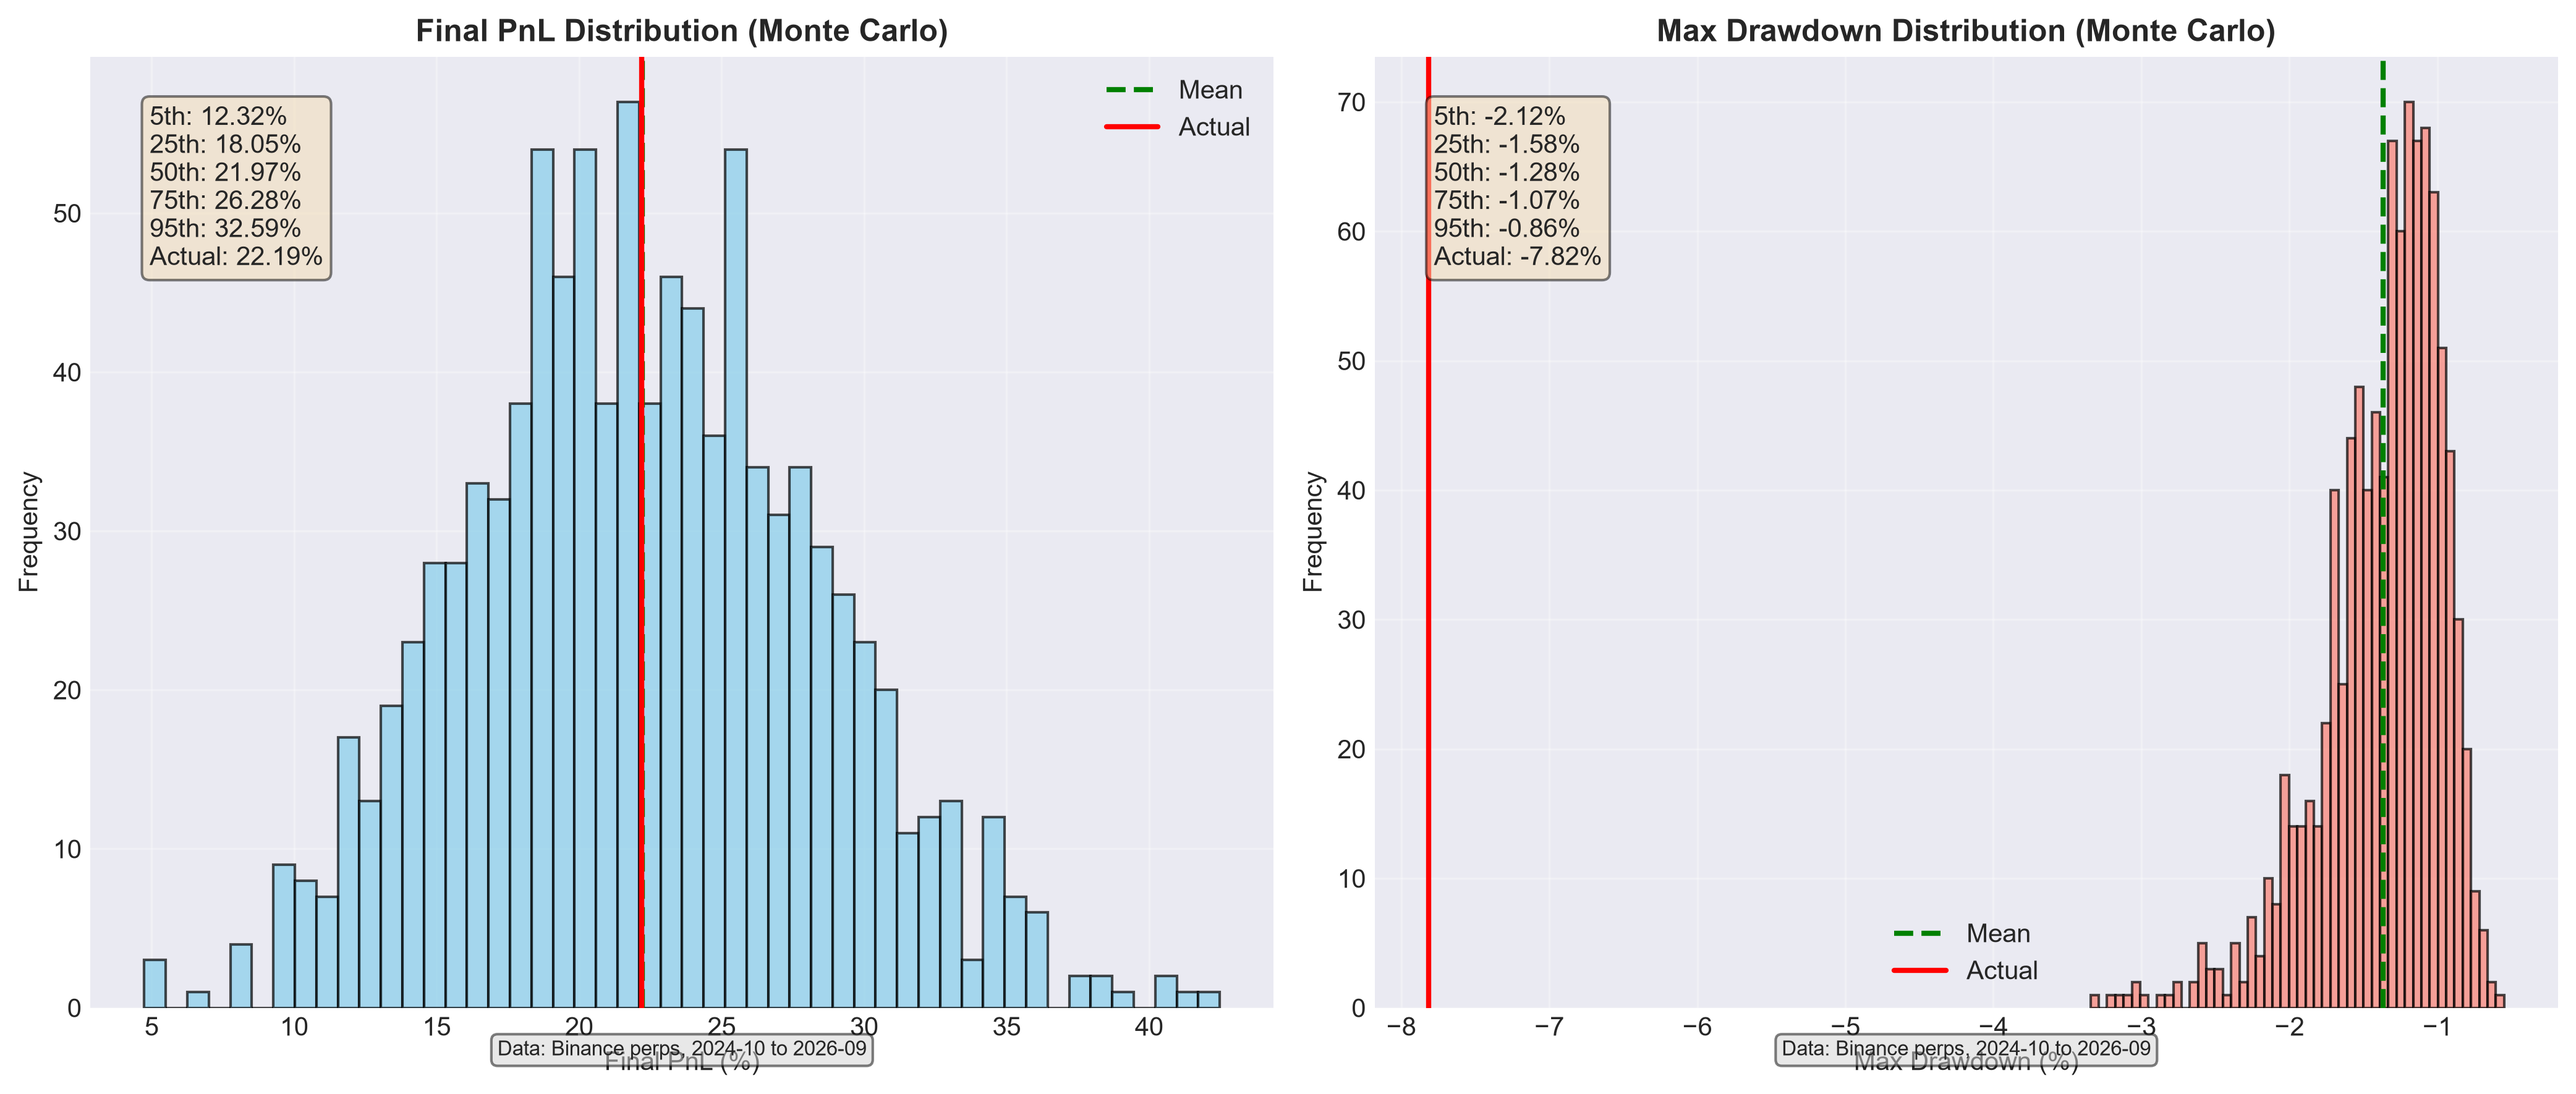
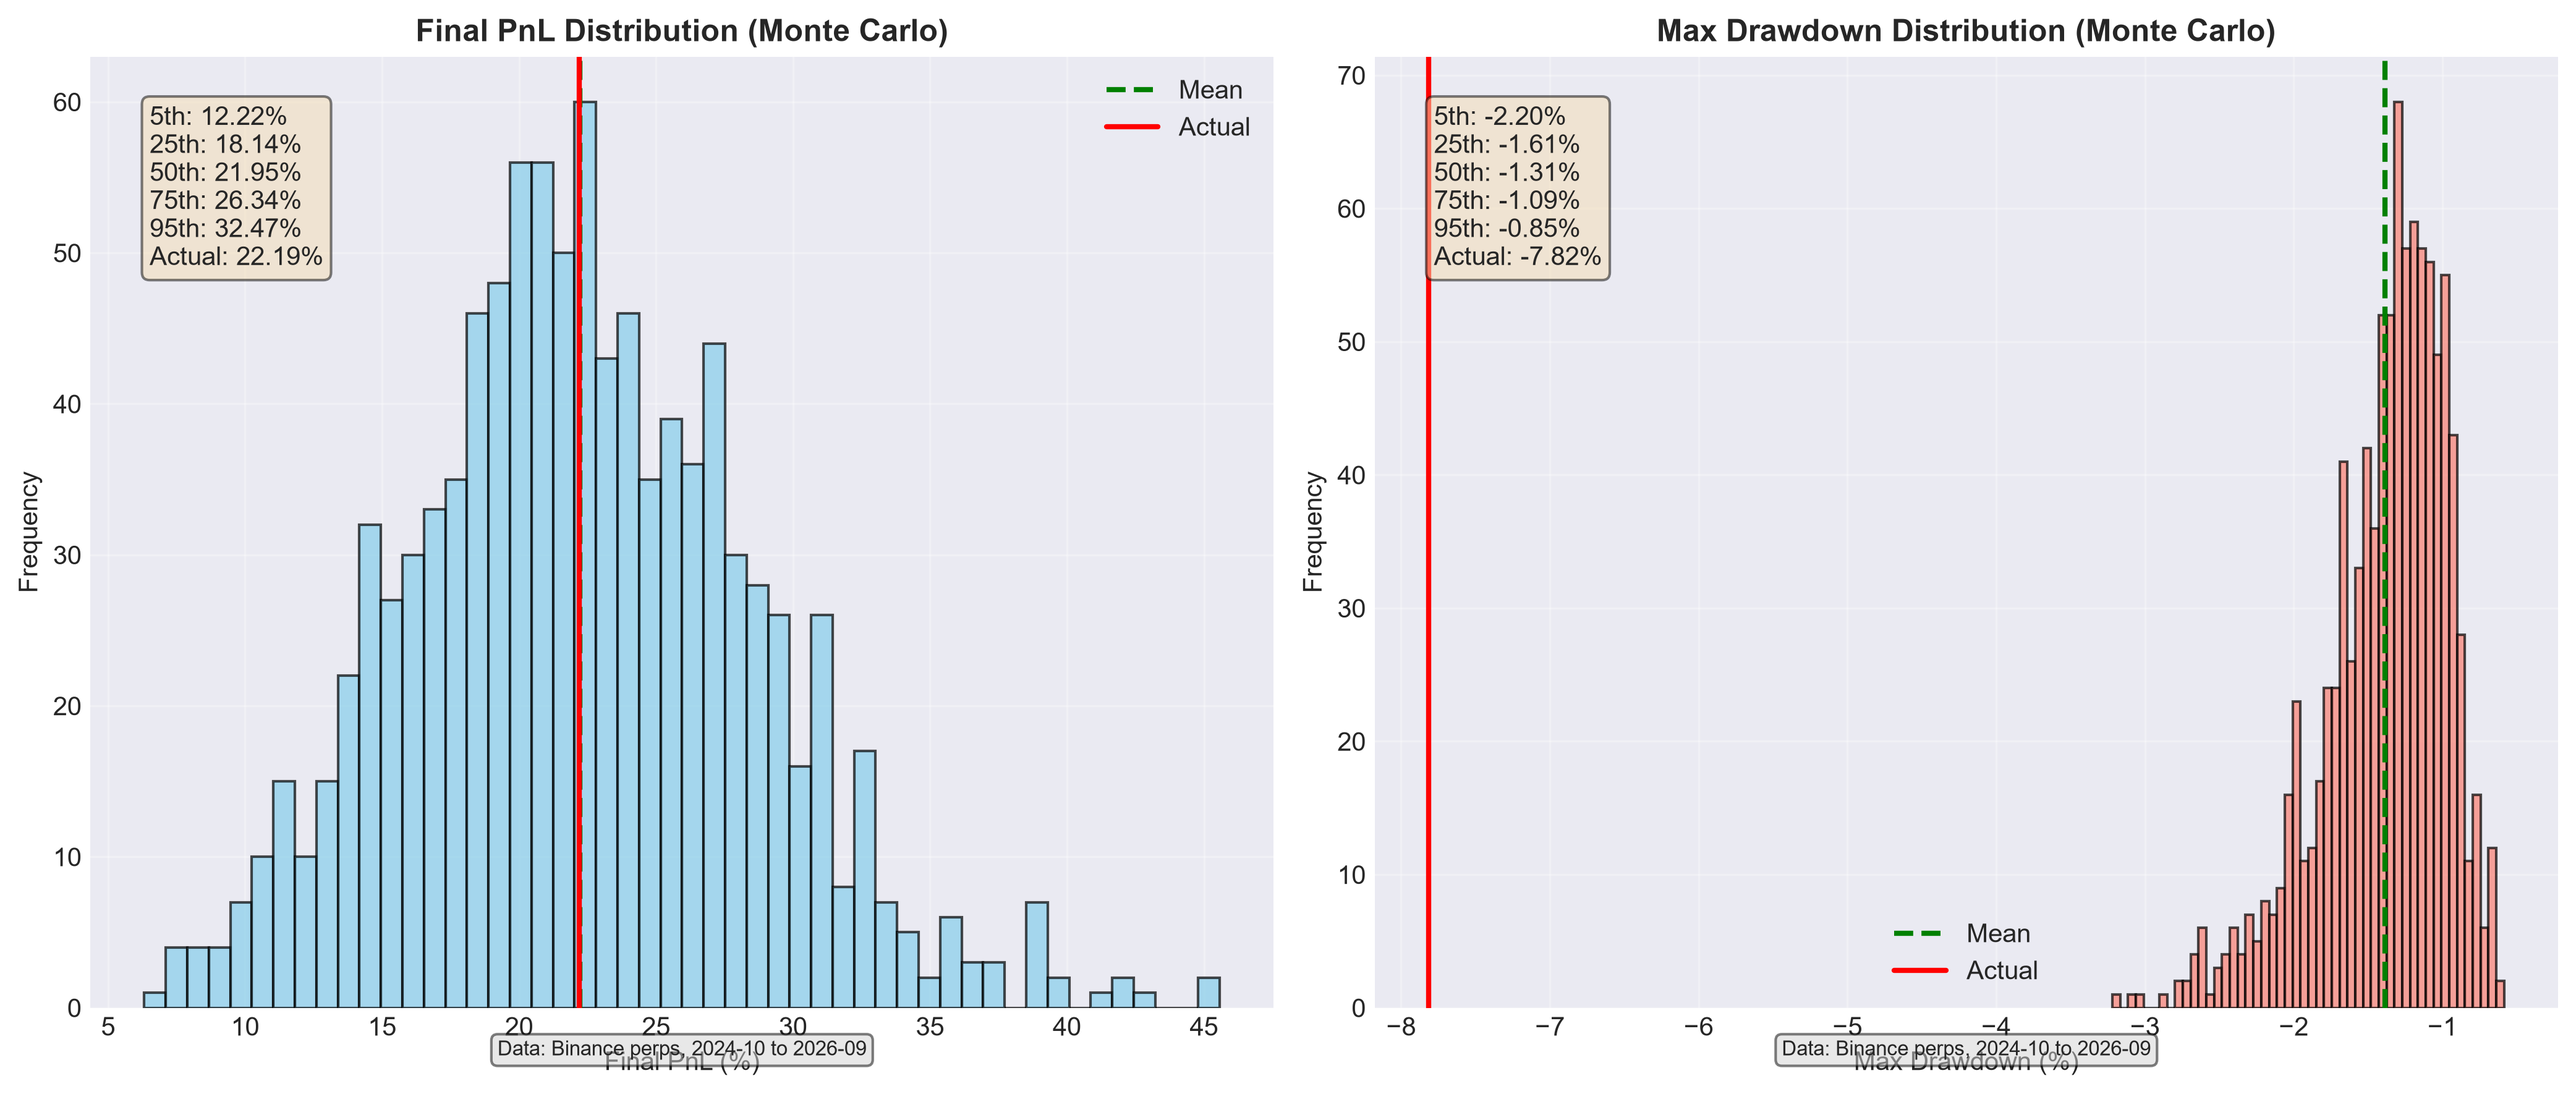
fix: correct concentration asset (AXS 63%) and year attribution in REPORT

diff --git a/REPORT.md b/REPORT.md
@@ -48,7 +48,7 @@ Individual trade PnL distribution shows a positive mean with right skew, indicat
 *Figure 3: Trade PnL histogram with mean (green) and break-even (red) lines*
 
 ### Asset Contribution
-PnL is distributed across multiple assets, with the top asset contributing approximately 49% of total profits.
+PnL is distributed across multiple assets, with the top asset (AXS) contributing 63.0% of total profits.
 
 ![PnL by Asset](charts/05_pnl_by_asset.png)
 *Figure 4: Horizontal bar chart of PnL contribution by asset (top 15)*
@@ -62,7 +62,7 @@ PnL is distributed across multiple assets, with the top asset contributing appro
 - **Deflated Sharpe Ratio (DSR)**: 3.4180, p = 0.0003 (survives multiple testing bias correction)
 
 ### Walk-Forward Analysis
-The strategy was validated using a 6-month training, 2-month testing walk-forward approach with monthly rebalancing. All four MF candidates (0.0002, 0.0003, 0.0004, 0.0005) were evaluated each window, with selection based on highest training Sharpe ratio.
+Walk-forward validation used 6-month training and 2-month test windows, rolling monthly (17 windows). All four MF candidates were evaluated on training data; the optimizer selected MF=0.0005 in every window, which suggests the tight-threshold config dominates across regimes. Out-of-sample, 12 of 17 windows (70.6%) were positive with median test Sharpe 6.42. This is a positive result, though the lack of MF diversity across windows limits the strength of the optimizer validation.
 
 ![Walk-Forward Test Sharpe](charts/06_walk_forward.png)
 *Figure 5: Test Sharpe ratio per walk-forward window (green = positive, red = negative)*
@@ -84,7 +84,7 @@ Average losing trade: -0.25%
 R:R ratio: 2.70
 
 ### Concentration Analysis
-Top asset (INJ) accounts for 49.31% of total PnL, below the 50% threshold for excessive concentration.
+Top asset (AXS) accounts for 63.0% of total PnL, above the 50% threshold for excessive concentration. This is a concentration risk: the strategy's net profit relies materially on one asset. Mitigation would involve position-size caps per asset or excluding assets whose PnL share exceeds 20%, at the cost of lower overall return.
 
 ## Frequency/Edge Tradeoff
 
@@ -103,8 +103,12 @@ Our selected configuration (MF=0.0004) represents the optimal balance, achieving
 - Funding rate data is assumed to be accurate and without lookup bias.
 - The universe consists of perpetual futures with sufficient liquidity; some assets may have higher transaction costs in practice.
 - The walk-forward test shows mixed performance across windows, with 70.6% of windows profitable.
-- Concentration analysis shows top asset (INJ) accounts for a significant portion of total PnL.
-- 76% of net PnL occurred in 2026 only, indicating edge is concentrated in the most recent 9 months.
+- Net PnL is concentrated entirely in 2026. Specifically:
+  2024: -3.39% (negative)
+  2025: +0.59% (essentially flat)
+  2026: +24.99% (all net profit)
+  Of the +22.19% total, +20.83% came from 2026Q1 alone (94% of total).
+  This indicates the edge is regime-dependent and concentrated in a single quarter. Out-of-sample performance in earlier regimes (2024-2025) is flat-to-negative. This is a material limitation and the strategy should not be treated as a persistent, all-weather edge without further validation.
 
 ## Conclusion
 
